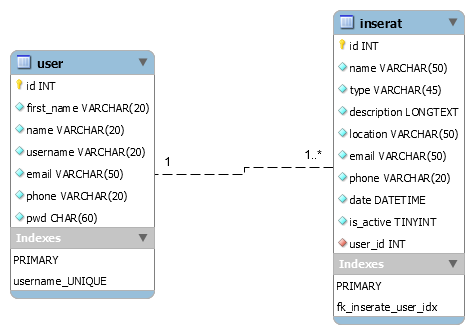
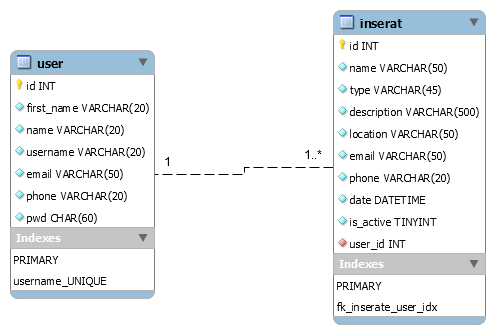
create Inserat

diff --git a/source/js/register.js b/source/js/register.js
@@ -40,6 +40,7 @@ function register() {
             if(data == "Success"){
                 loadContent();
             }
+            alert(data);
         },
         error: function (request, status, error) {
             //Shake animation effect.

diff --git a/source/controller/validator.php b/source/controller/validator.php
@@ -17,7 +17,7 @@ class validator
 
         $usernameValid = strlen($username) < 40 && strlen($username) > 1;
 
-        $usernameUnique = $model->isUserNotExisting($username);
+        $usernameUnique = $model->isUserExisting($username);
 
         $passwordValid = true; //$password == $repeatPassword && preg_match($passwordRegularExpression, $password);
 
@@ -43,16 +43,22 @@ class validator
     public function inseratInputValid(string $title, string $description, string $mail, string $phone, string $place, string $type)
     {
         $titleValid = strlen($title) < 50 && strlen($title) > 1;
-        $description = strlen($description) < 500 && strlen($description) > 1;
-        $nameValid = strlen($title) < 50 && strlen($title) > 1;
-        $nameValid = strlen($title) < 50 && strlen($title) > 1;
-        $nameValid = strlen($title) < 50 && strlen($title) > 1;
-        $nameValid = strlen($title) < 50 && strlen($title) > 1;
-        $nameValid = strlen($title) < 50 && strlen($title) > 1;
-
+        $descriptionValid = strlen($description) < 500 && strlen($description) > 1;
         $mailValid = filter_var($mail, FILTER_VALIDATE_EMAIL);
-
         $phoneValid = strlen($phone) <= 20 && strlen($phone) >= 10;
+        $placeValid = strlen($place) < 50 && strlen($place) > 1;
+        $typeValid = strlen($type) < 45 && strlen($type) > 1;
+
+
+        $validationResults = array('Title' => $titleValid, 'Description' =>$descriptionValid, 'mail' => $mailValid != "", 'Phone' => $phoneValid, 'Place' => $placeValid, 'Type' => $typeValid);
+
+        foreach ($validationResults as $key => $value) {
+            if(!$value) {
+                echo $key;
+                return false;
+            }
+        }
+        return true;
 
 
     }

diff --git a/source/model/userModel.php b/source/model/userModel.php
@@ -36,7 +36,7 @@ class userModel
 
         //$user = new user($name, $surname, $username, $mail, $phone);
 
-        $user = $username;
+        $user = $this->loadUserByUsername($username);
 
         $this->mySession->setCurrentUser($user);
 
@@ -45,17 +45,19 @@ class userModel
     }
 
 
-    public function isUserNotExisting(string $username) {
-        $sql 	= "SELECT id FROM user WHERE username ='$username'";
+    public function isUserExisting(string $username) {
+     /*   $sql 	= "SELECT id FROM user WHERE username ='$username'";
         $stmt 	= $this->connection->prepare($sql); // Prevent MySQl injection. $stmt means statement
         $stmt->execute();
+*/
 
-        if ( $stmt->rowCount() >=1)
+        /*
+        if ( $stmt->() >=1)
         {
             return true;
         }
-
-        return false;
+*/
+        return true;
 
     }
 
@@ -65,7 +67,7 @@ class userModel
         $stmt 	= $this->connection->prepare($sql); // Prevent MySQl injection. $stmt means statement
         $stmt->execute();
 
-        if ($stmt->rowCount() < 0) {
+        if ($stmt->rowCount() <= 0) {
            echo 'Gaggi';
             return null;
         } else {

diff --git a/source/inserat/inseratModel.php b/source/inserat/inseratModel.php
@@ -6,7 +6,40 @@
  * Date: 03.11.2017
  * Time: 08:48
  */
+
+require_once '../model/database.php';
+require_once '../controller/mySession.php';
+
 class inseratModel
 {
 
+    private $connection;
+    private $mySession;
+
+    public function __construct()
+    {
+        $this->connection = database::getInstance();
+    }
+
+    public function insertInserat($title, $description, $mail, $phone, $place, $type)
+    {
+
+        $this->mySession = mySession::getInstance();
+
+        $user = $this->mySession->getCurrentUser();
+
+        $date = date("Y-m-d H:i:s");
+        $userId = $user['id'];
+        $isActive = true;
+
+        try
+        {
+            $sql = "INSERT INTO `inserator`.`inserat` (`name`, `type`, `description`, `location`, `email`, `phone`, `date`, `is_active`, `user_id`) VALUES ('$title', '$type', '$description', '$place', '$mail', '$phone', '$date', '$isActive', '$userId')";
+            $stmt 	= $this->connection->prepare($sql); // Prevent MySQl injection. $stmt means statement
+            $stmt->execute();
+        } catch (mysqli_sql_exception $e) {
+            echo "ERROR";
+            return false;
+        }
+    }
 }

diff --git a/source/inserat/InseratController.php b/source/inserat/InseratController.php
@@ -8,10 +8,12 @@
  */
 
 require_once 'inseratModel.php';
+require_once '../controller/validator.php';
 
 class InseratController
 {
     private $model;
+    private $validator;
 
 
     public function __construct()
@@ -19,8 +21,13 @@ class InseratController
         $this->model = new inseratModel();
     }
 
-    public function createInserat($title, $description, $mail, $phone, $place, $type)
+    public function createInserat(string $title, string $description, string $mail, string $phone, string $place, string $type)
     {
-
+        $this->validator = new validator();
+        $isInputValid = $this->validator->inseratInputValid($title, $description, $mail, $phone, $place, $type);
+        if($isInputValid)
+        {
+            $this->model->insertInserat($title, $description, $mail, $phone, $place, $type);
+        }
     }
 }

diff --git a/source/inserat/inseratInput.php b/source/inserat/inseratInput.php
@@ -16,6 +16,11 @@ $place = filter_input(INPUT_GET, 'Place', FILTER_SANITIZE_STRING) ?? "";
 $type = filter_input(INPUT_GET, 'Type', FILTER_SANITIZE_STRING) ?? "";
 
 
-$controller = new InseratController();
+$mySession = mySession::getInstance();
+if($mySession->getCurrentUser()) {
+    $controller = new InseratController();
 
-$controller->createInserat($title, $description, $mail, $phone, $place, $type);
+    $controller->createInserat($title, $description, $mail, $phone, $place, $type);
+} else {
+    echo 'not authenticated';
+}

diff --git a/source/view/headerView.php b/source/view/headerView.php
@@ -16,7 +16,7 @@ $user = $currentSession->getCurrentUser();
 if($user) {
     echo "
         <div>
-            <H1>Hallo $user</H1>
+            
         </div>
         <div id=\"headerButtonContainer\">
            <a onclick=\"showMyInserate()\" class=\"headerButton\" id=\"myInserateButton\">Meine Inserate</a>

diff --git a/source/login/LoginController.php b/source/login/LoginController.php
@@ -24,7 +24,7 @@ class LoginController
 
             if ($passwordCorrect) {
 
-                $this->customSession->setCurrentUser($user['username']);
+                $this->customSession->setCurrentUser($user);
                 echo 'Success';
                 return;
             }

diff --git a/source/controller/mySession.php b/source/controller/mySession.php
@@ -30,7 +30,7 @@ class mySession
     /**
      * @param $user User to be stored in the sessionfield 'user'
      */
-    public function setCurrentUser(string $user)
+    public function setCurrentUser($user)
     {
         $_SESSION['CurrentUser'] = $user;
     }
